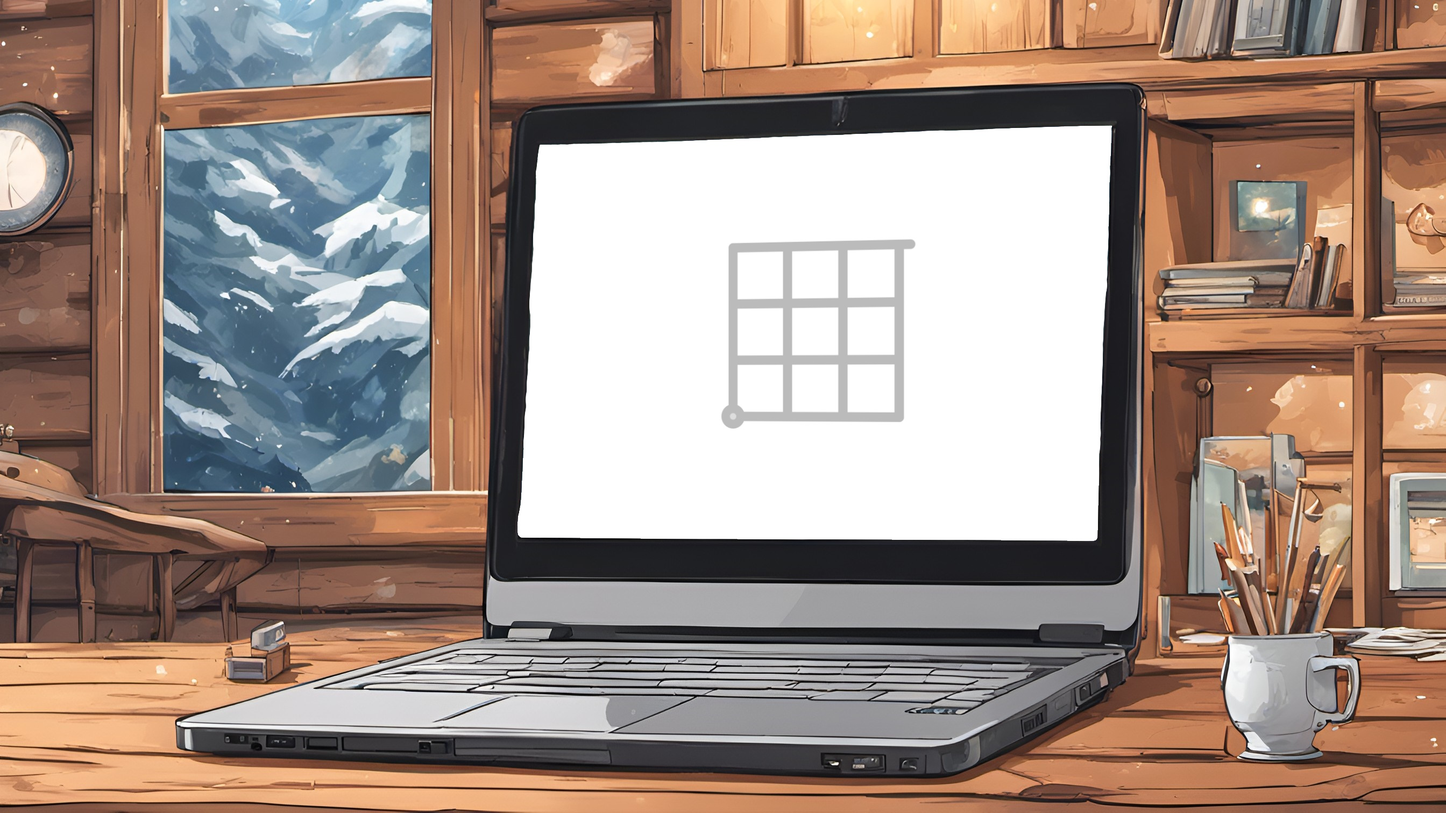
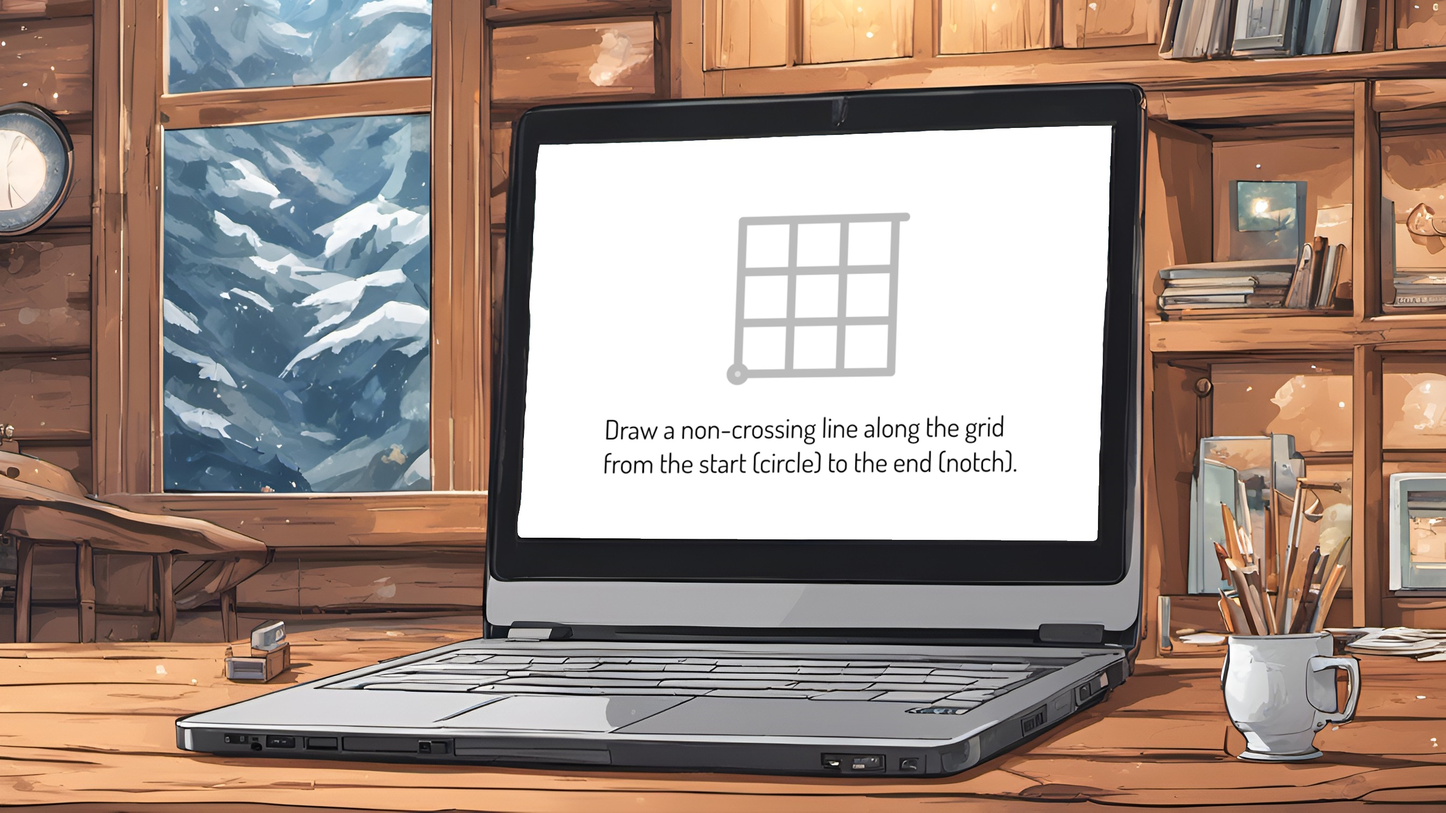
Most parts updated.

Changed region(s): [[0.4062, 0.2487, 0.7188, 0.5906]]

diff --git a/src/index.html b/src/index.html
@@ -106,15 +106,27 @@
             <div class="page-structure-and-goals-allElements  white-background"></div>
             <div class="page-structure-and-goals-allElements  puzzle-instruction puzzle-fully-centered"></div>
 
+            <div class="page-structure-and-goals-allElements  puzzle-instruction-text ">
+                Draw a non-crossing line along the grid from the start (circle) to the end (notch).
+            </div>
+
 
             <!-- <div class="page-square-color-constraints-allElements  white-background"></div> -->
             <div class="page-square-color-constraints-allElements  puzzle-square-color-constraints puzzle-fully-centered"></div>
+
+            <div class="page-square-color-constraints-allElements  puzzle-instruction-constraints ">
+                Separate squares of different colours from one another with your line.
+            </div>
+
 
             <!-- <div class="page-puzzles-to-solve-allElements puzzle-intro-background white-background white-background"></div> -->
             <div class="page-puzzles-to-solve-allElements puzzle-test puzzle-intro-easy"></div>
             <div class="page-puzzles-to-solve-allElements puzzle-test puzzle-intro-hard"></div>
             <div class="page-puzzles-to-solve-allElements puzzle-test puzzle-intro-medium"></div>
 
+            <div class="puzzles-to-solve-text ">
+                Challenge: Solve each puzzle within 1 minute!
+            </div>
 
             <img class="img-robot-looking-down" src="./assets/images/robot-looking-down.png" />
 
@@ -1004,7 +1016,10 @@
             <img class="results-puzzle-ordering-equidistant-img" src="assets/images/results-puzzle-ordering-equidistant.png">
             <img class="results-distribution-3x3-img" src="assets/images/results-distribution-3x3.png">
             <img class="results-distribution-3x4-img" src="assets/images/results-distribution-3x4.png">
-            <img class="results-triangle-img" src="assets/images/results-triangle.png">
+            <img class="results-triangle-img results-triangle-1-img" src="assets/images/results-triangle-1.png">
+            <img class="results-triangle-img results-triangle-2-img" src="assets/images/results-triangle-2.png">
+            <img class="results-triangle-img results-triangle-3-img" src="assets/images/results-triangle-3.png">
+            <img class="results-triangle-img results-triangle-4-img" src="assets/images/results-triangle-4.png">
 
 
             <img class="future-work-01" src="assets/images/future-work-01.jpg">
@@ -1015,7 +1030,7 @@
 
 
 
-            <a href="https://ideaowl.com/thesis" target="_blank" class="thesis-link">
+<a href="https://ideaowl.com/thesis" target="_blank" class="thesis-link">
 
             <svg class="presentation-qr-code" version="1.0" xmlns="http://www.w3.org/2000/svg" xmlns:xlink="http://www.w3.org/1999/xlink" viewBox="0 0 100 100" enable-background="new 0 0 100 100" xml:space="preserve">
                 

diff --git a/src/assets/data/pieces.js b/src/assets/data/pieces.js
@@ -445,7 +445,23 @@ export const pieces = [
     //     }]
     // },
 
+    
 
+
+    {
+        selector: '.puzzles-to-solve-text',
+        states: [
+            {
+                inPages: ['puzzles-to-solve'],
+                exitType: 'fly-top',
+                delay: 0,
+                duration: defaultDuration,
+                styles: {
+                    top: 150,
+                }
+            },
+        ]
+    },
 
 
     {
@@ -2850,10 +2866,13 @@ export const pieces = [
     },
 
     {
-        selector: '.results-triangle-img',
+        selector: '.results-triangle-1-img',
         states: [{
             inPages: [
-                'triangle-constraint-puzzle-scores',
+                'triangle-slitherlink',
+                'triangle-constraint-puzzle',
+                'triangle-remuse-correlation',
+                'triangle-average-length-correlation'
             ],
             exitType: 'fade',
             delay: 0,
@@ -2862,6 +2881,54 @@ export const pieces = [
 
         ]
     },
+
+    {
+        selector: '.results-triangle-2-img',
+        states: [{
+            inPages: [
+                'triangle-constraint-puzzle',
+                'triangle-remuse-correlation',
+                'triangle-average-length-correlation'
+            ],
+            exitType: 'fade',
+            delay: 0,
+            duration: defaultDuration,
+        },
+
+        ]
+    },
+
+
+    {
+        selector: '.results-triangle-3-img',
+        states: [{
+            inPages: [
+                'triangle-remuse-correlation',
+                'triangle-average-length-correlation'
+            ],
+            exitType: 'fade',
+            delay: 0,
+            duration: defaultDuration,
+        },
+
+        ]
+    },
+
+
+    {
+        selector: '.results-triangle-4-img',
+        states: [{
+            inPages: [
+                'triangle-average-length-correlation',
+            ],
+            exitType: 'fade',
+            delay: 0,
+            duration: defaultDuration,
+        },
+
+        ]
+    },
+
 
 
     {

diff --git a/src/assets/css/styles.scss b/src/assets/css/styles.scss
@@ -410,7 +410,7 @@ html, body, #page-canvas {
     }
 
     .puzzle-from-witness-game {
-        top: 50%;
+        top: 48%;
         left: 50%;
         transform: translate(-50%, -50%);
     }
@@ -1081,6 +1081,8 @@ html, body, #page-canvas {
         left: calc((1920 - 1600)/2);
         top: 240px;
     }
+
+    
     .results-triangle-img {
         width: 1600px;
         left: calc((1920 - 1600)/2);
@@ -1136,10 +1138,38 @@ html, body, #page-canvas {
         text-decoration: underline;
     }
 
+    .puzzle-instruction {
+        top: 400px;
+    }
+
+    .puzzle-square-color-constraints {
+        top: 400px;
+    }
 
 
+    .puzzle-instruction-text {
+        font-size: 80px;
+        width: 1220px;
+        left: calc((1920 - 1220)/2);
+        bottom: 150px;
+    }
 
 
+    .puzzle-instruction-constraints {
+        font-size: 80px;
+        width: 1120px;
+        left: calc((1920 - 1120)/2);
+        bottom: 150px;
+    }
+
+
+    .puzzles-to-solve-text {
+        font-size: 80px;
+        width: 1920px;
+        text-align: center;
+        // left: calc((1920 - 1120)/2);
+
+    }
 
 
 

diff --git a/src/assets/data/config.js b/src/assets/data/config.js
@@ -526,8 +526,20 @@ export const config = {
                 //     title: 'Distribution of 3x4 Puzzle Scores'
                 // },
                 {
-                    id: 'triangle-constraint-puzzle-scores',
-                    title: 'Triangle Constraint Puzzles Correlation'
+                    id: 'triangle-slitherlink',
+                    title: 'Slitherlink Puzzles'
+                },
+                {
+                    id: 'triangle-constraint-puzzle',
+                    title: 'Triangle Constraint Puzzles'
+                },
+                {
+                    id: 'triangle-remuse-correlation',
+                    title: 'Triangle Constraint ReMUSE Correlation'
+                },
+                {
+                    id: 'triangle-average-length-correlation',
+                    title: 'Triangle Constraint Average Solution Length Correlation'
                 },
             ]
         },
